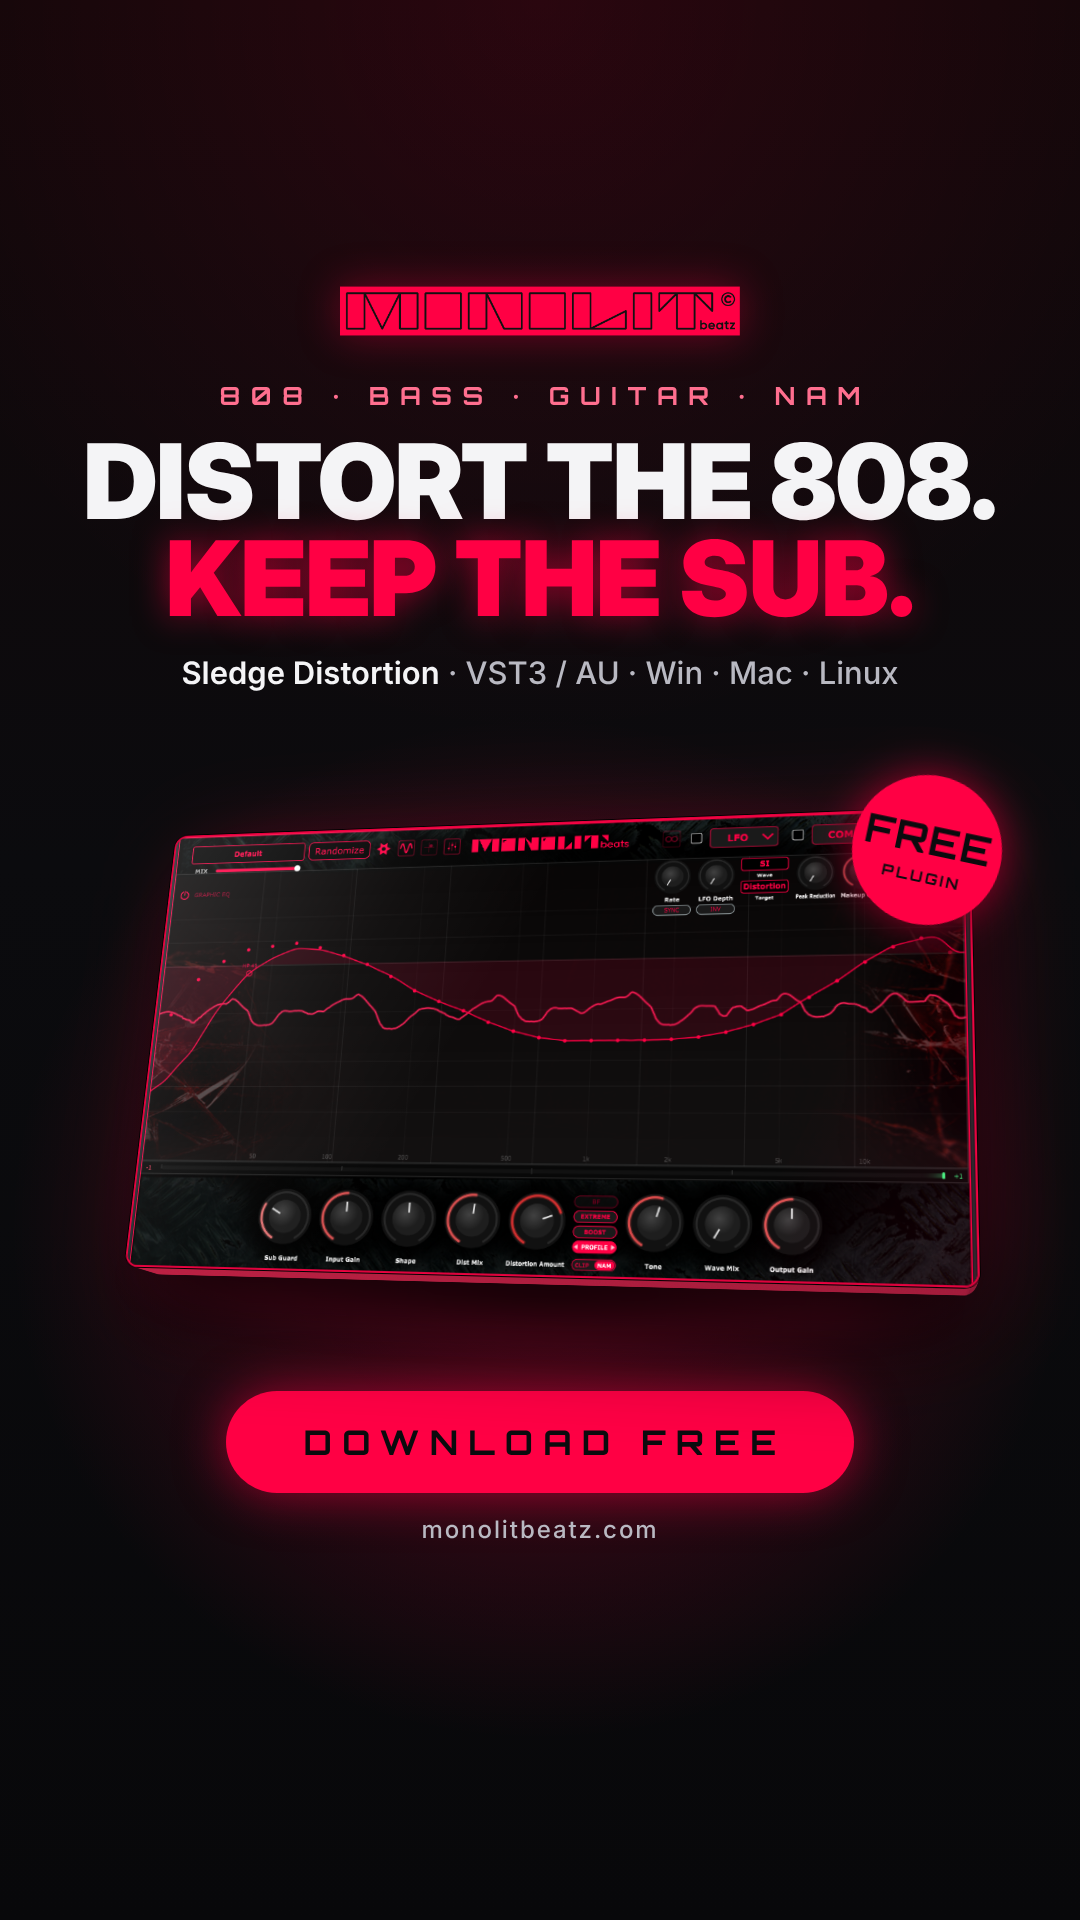
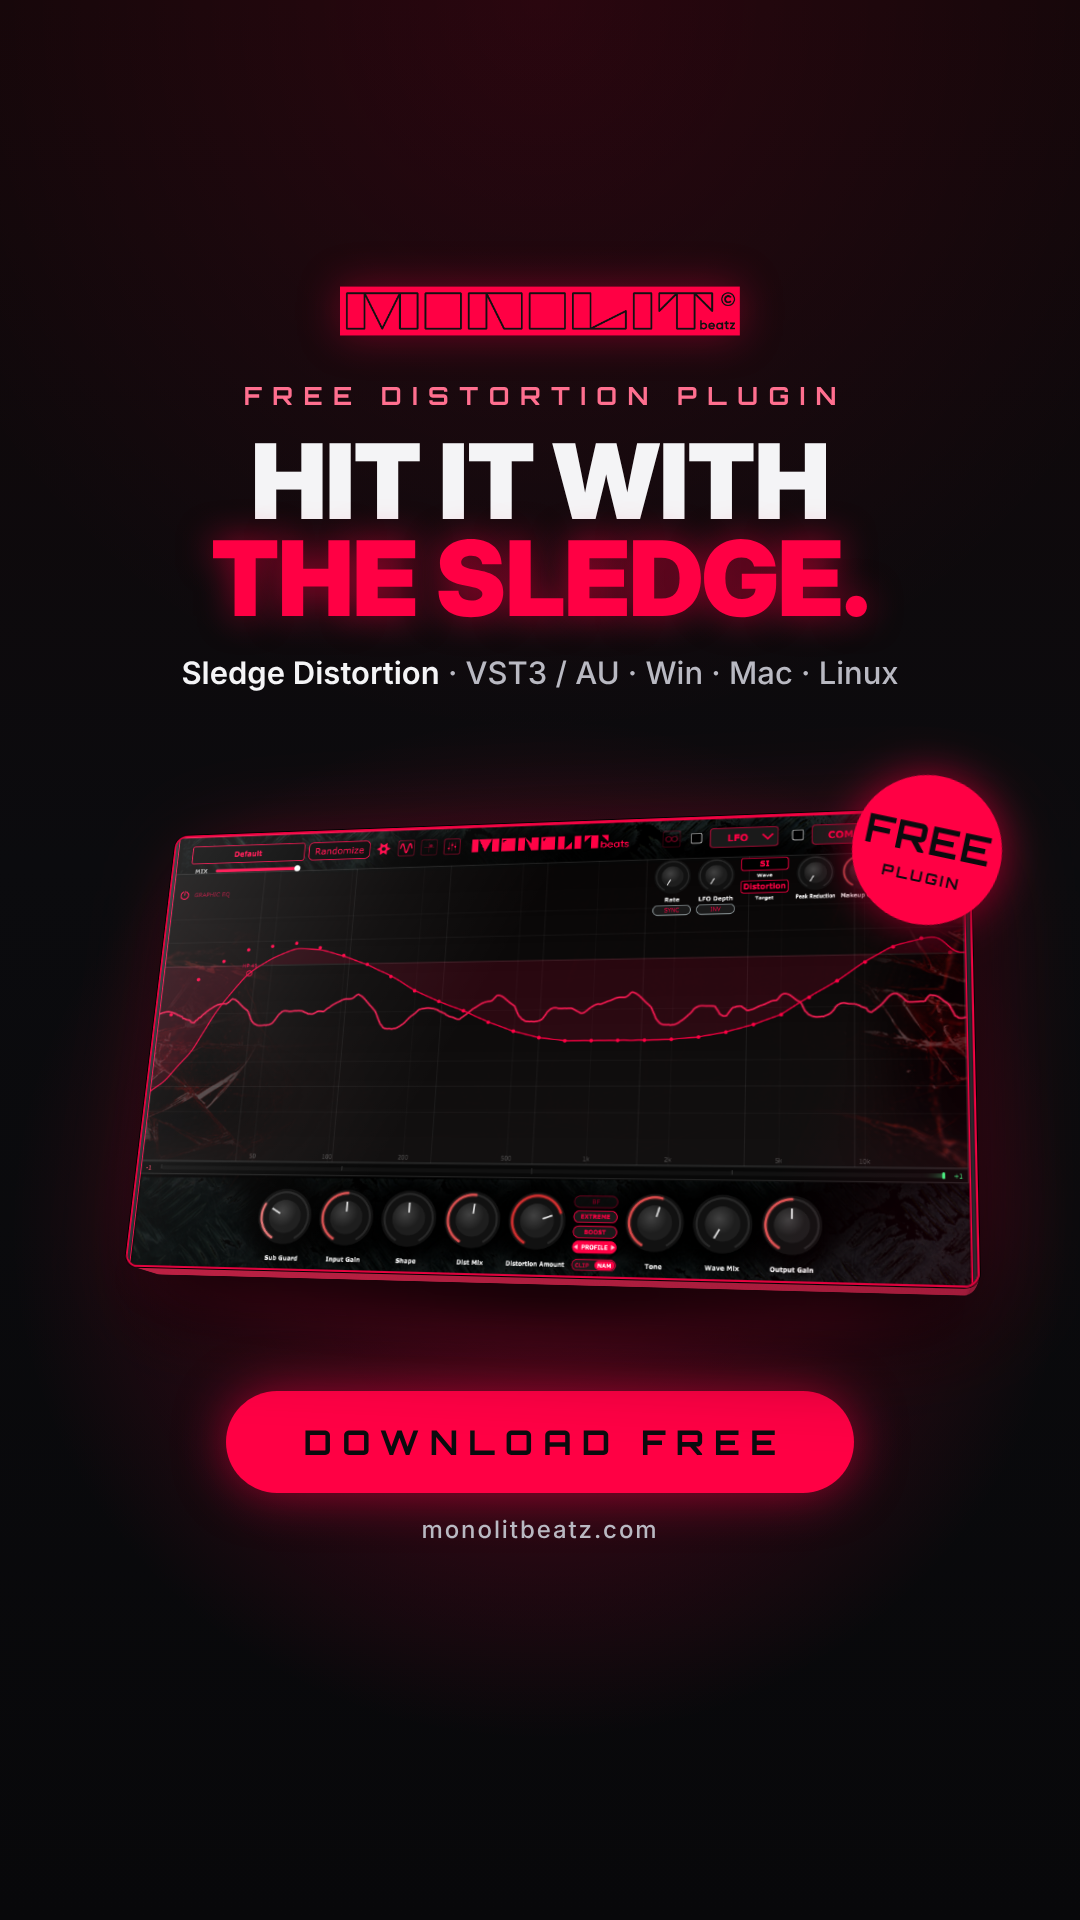
chore: make "Hit it with the Sledge" the launch headline

Changed region(s): [[0.0611, 0.1875, 0.9167, 0.3438]]

diff --git a/marketing/launch/post.html b/marketing/launch/post.html
@@ -106,8 +106,8 @@
 <body>
   <div class="canvas">
     <img class="logo" src="assets/logo.png" alt="Monolit Beatz">
-    <div class="kicker" id="kicker">808 · BASS · GUITAR · NAM</div>
-    <h1 id="headline"><span id="l1">Distort the 808.</span><br><span class="hot" id="l2">Keep the sub.</span></h1>
+    <div class="kicker" id="kicker">FREE DISTORTION PLUGIN</div>
+    <h1 id="headline"><span id="l1">Hit it with</span><br><span class="hot" id="l2">the Sledge.</span></h1>
     <p class="sub"><b>Sledge Distortion</b> · VST3 / AU · Win · Mac · Linux</p>
 
     <div class="stage">

diff --git a/marketing/launch/caption.md b/marketing/launch/caption.md
@@ -7,7 +7,7 @@ re-render with `node marketing/launch/render.js`.
 
 ## Caption (organic post)
 
-Distort the 808. Keep the sub. 🔴
+Hit it with the Sledge. 🔨🔴
 
 Sledge Distortion is out, and it's free.
 
@@ -24,7 +24,7 @@ Free download: link in bio 🔗
 
 ## Ad version (Meta Ads Manager)
 
-- **Primary text:** Distort the 808. Keep the sub. Sledge Distortion is a free plugin with Sub
+- **Primary text:** Hit it with the Sledge. Sledge Distortion is a free plugin with Sub
   Guard, a draw-on-the-scope EQ and NAM capture support. VST3 / AU for Windows, macOS and Linux.
 - **Headline:** Sledge Distortion: Free Download
 - **Button:** Download
